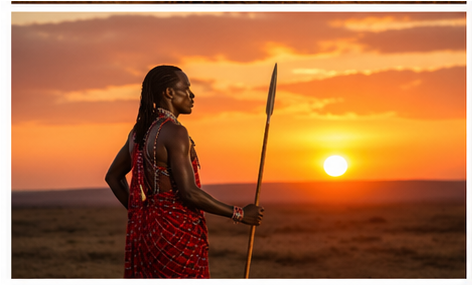
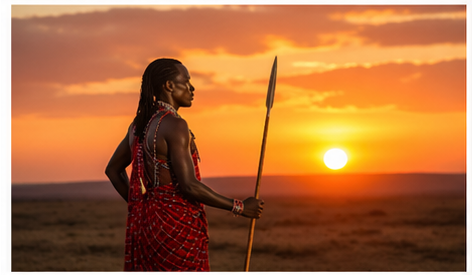
Updating the gallery

diff --git a/app/about/page.js b/app/about/page.js
@@ -66,10 +66,10 @@ export default function AboutPage() {
 
             <div className="about-images">
               <div className="about-img-main">
-                <img src="/images/about/about-story.jpg" alt="Safari at Masikio Adventures" />
+                <img src="/images/gallery/gallery5.png" alt="Safari at Masikio Adventures" />
               </div>
               <div className="about-img-secondary">
-                <img src="/images/about/about-maasai.jpg" alt="Maasai community" />
+                <img src="/images/gallery/gallery1.png" alt="Maasai community" />
               </div>
               <div className="about-badge">
                 <span className="about-badge-num">12+</span>
